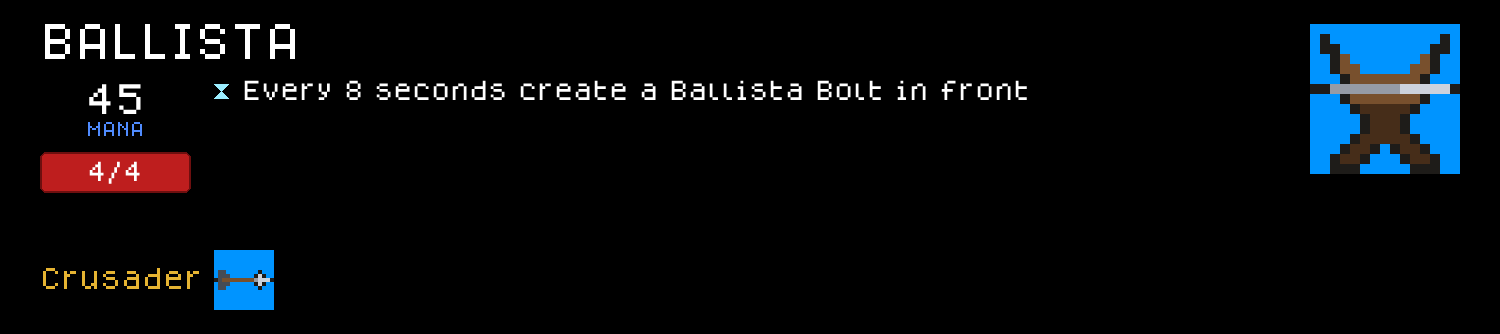
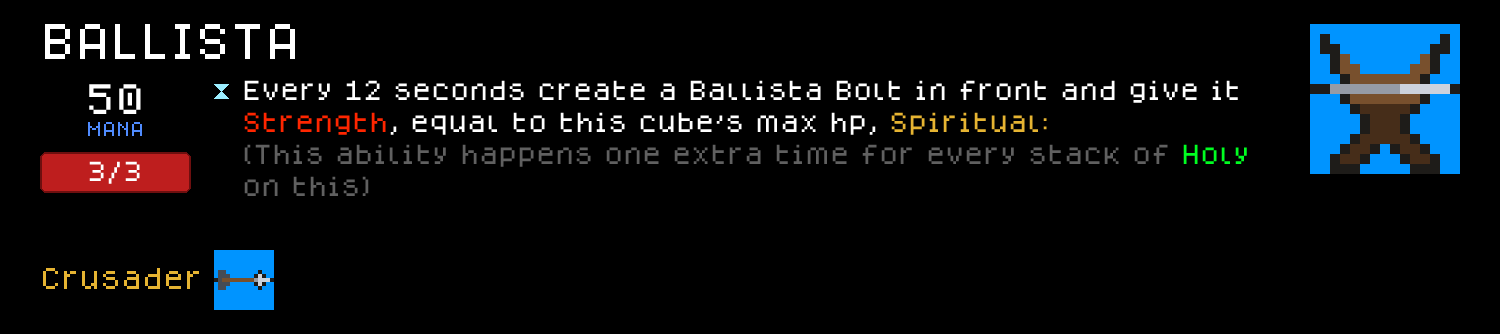
Add Spiritual keyword, Lazarett, and Cardinal lift animation
Spiritual needs a paired ACTION + never-granted text-only ABILITY compound:
there is no GenericTrigger, so one ability compound can't serve three triggers.

diff --git a/.claude/skills/cube-chaos-scripting/references/gotchas-grepped.md b/.claude/skills/cube-chaos-scripting/references/gotchas-grepped.md
@@ -34,7 +34,8 @@ conversion (TOKEN→IDENT).
 - **To make the AI never place a specific cube at all (any position), give it `AiPlacementRule: False`** — `False` is a real, pre-defined `BOOLEAN` compound (`Base_Core/1Compounds.c.txt:355-358`: `COMPOUND: BOOLEAN / False / Not True / End`), no need to hand-build an always-false expression out of `IsLarger`/`IsSmaller`. This works even on a bare `TOKEN` cube with no `IDENT` (`AiPlacementRule` just needs *some* value once the cube can end up in a hand at all, e.g. via `AddCubeToHandOfThis`/`GainAllAbilitiesOfCube`-style grants — it isn't gated on having `IDENT`). Confirmed via a real test-launch (clean parse, 0 `ERROR`/`CANT READ` lines) on the DJ mod's `Record` cube. **Don't assume "never AI-placed" is only a workaround for a rogue enemy AI — check whether staying in hand forever is actually the cube's intended value first.** Real correction, the DJ mod's `Record`: `Rhythmic` (this same mod's ability-copy engine) only scans `EveryCubeInHandOfFactionWhich` — a `Record` that gets placed on the board stops being an eligible ability donor entirely. The user's actual intended DJ strategy is to let Records sit in hand indefinitely, soaking up abilities from whatever touches the Microphone, so `Rhythmic`-holding Notes/other 0-mana creations can keep rolling against that hand-resident pool — placing a Record is a *loss* of value, not a step towards using it. So `AiPlacementRule: False` on `Record` isn't a narrow anti-enemy-AI patch to be reverted once the acquisition path is fixed (see next bullet) — it's the correct permanent behavior, and it deliberately also applies to the game's own "AI plays your turns for you" perk/gamemode piloting the DJ player, which should replicate the human strategy of hoarding Records, not place them. When a "should the AI ever place this" question comes up for a hand-resident value-accumulator cube, ask what the cube is *for* before assuming AI parity with normal placement is the goal.
 - **When an AI-owned cube misbehaving is really "this cube reached an AI opponent it was never supposed to be able to own," fix the acquisition path too, not AI placement alone.** Real incident, the DJ mod's `Microphone`/`Record`: `Microphone` hands the player a 0-mana `Record` every time it's created, and a separate ability makes Records inherit *all* abilities of whatever non-leader cubes are touching the Microphone — an AI *enemy* (not the DJ player) owning a Microphone touching strong cubes could accumulate a hand full of free, arbitrarily-powerful Records (each blocked from ever being placed by the previous bullet's `AiPlacementRule: False`, so they'd just pile up in hand instead — not actually a placement-dump freeze, but still a cube that enemy AI should never have owned in the first place). **The real root cause: `Microphone` had `IDENT 1 0 0 15 10` (rarity 1, obtainable), which lets the general chest/reward loot system hand a physical `Microphone` to ANY entity — including a randomly-generated enemy AI with no connection to the DJ class at all — independent of whether that AI "should" have one.** The fix: convert `Microphone` to bare `TOKEN` (removing it from that loot pool entirely, so no enemy AI can ever acquire one by chance) and instead grant it deterministically only to the DJ class itself via `ObtainAction: AddCubeToDeck CubeConstant Microphone` on `PERK: DJ` (replacing the old `ObtainAction: AddCubeToInventory CubeConstant Microphone`) — matching the real base-game precedent of the Devourer species's `Join_The_Swarm` (`Characters/Species/Devourer.c.txt:10`, also a bare-`TOKEN` cube granted this same way). **`AddCubeToDeck` is not a random shuffle-into-the-deck action** — user-observed directly in the pre-battle deck-building screen: the granted cube shows up as its own always-present slot tagged "Locked cube from one of your perks, does not take up a deck slot," i.e. a guaranteed pinned addition on top of the normal deck, not a probabilistic draw. This is a stronger/simpler guarantee than the `AtTheStartOfTheBattle`+`AddCubeToHandOfThis` per-battle-hand-grant idiom this same file's `Bass_Dragon_Egg`/`Inspiration` perks use (that idiom was tried first here, then replaced once the `AddCubeToDeck` precedent surfaced) — reach for `AddCubeToDeck` first for "this class/species should always have cube X available every battle," and only reach for the `AtTheStartOfTheBattle` idiom when the cube specifically needs to already be IN HAND (not just in the deck) at the very first tick of battle. **Both fixes are kept together, for different reasons** — `AiPlacementRule: False` because staying in hand is the cube's actual point (previous bullet), `AddCubeToDeck`+`TOKEN` because no entity other than the DJ player should ever own one at all. **When a cube "shouldn't exist on an AI opponent," check whether it's independently obtainable (`IDENT` + rarity) via the loot/reward system — a placement rule only controls what an AI does with a cube it already has, not whether it should have been able to get one in the first place, and the two fixes usually aren't substitutes for each other.**
 - **`Cooldown DOUBLE Action` (`ModdingInfo.txt:276`) had zero usage precedent anywhere in the base game or any mod in this repo until confirmed here (2026-07-27)** — wraps a single `Action`, gating it so repeat triggers within the given duration are ignored. Real working example: the Voidling mod's `Temple_The_Void` (`Voidling_Cubes.c.txt`), `AfterACubeDies If IsNeutral Culprit Cooldown DoubleConstant 1 GenerateXMana DoubleConstant 1` — parsed and loaded clean. **The duration argument is a bare `DoubleConstant N` (not `TimeConstant`-wrapped) — but unlike `EveryXSeconds`, it's actually in TICKS, not plain seconds; see the corrected entry a few bullets below (2026-08-02) for the real evidence, this bullet's original claim otherwise was wrong.** Still unconfirmed: the exact reset semantics (whether the cooldown timer starts counting from when the gated action last actually ran, vs. from every attempted trigger regardless of gating) — untested in actual play, only parse-verified so far.
-- **`EveryXTimes DOUBLE Action` and `XTimes DOUBLE Action` are two distinct, both-real productions** (`ModdingInfo.txt:254` and `:261` respectively) — not a typo of each other and not interchangeable by assumption. Neither has a confirmed real usage anywhere in this repo as of 2026-07-27 (grepped, zero hits for either), so which one is semantically correct for "repeat this Action N times" (trigger-level periodic repetition vs. a one-shot repeated-N-times action) is still unverified — don't assume swapping one for the other silently fixes a parse error if something else in the same chain is actually broken (real incident: a `Both GainAbilityStacking ABILITY DOUBLE ...` chain threw `CANT READ DOUBLE XTimes`/`CANT READ DOUBLE EveryXTimes` identically under both names, because the real bug was `GainAbilityStacking` missing its second argument upstream — see this file's `GainAbilityStacking` entry above — not the repeat-wrapper's name).
+- **`Difficulty` is a plain DOUBLE production usable anywhere, but it starts at 0** — scaling any stat off it raw ships a 0-hp cube on the first battle of a run. See `cube-chaos-balancing`'s "Scaling a stat off `Difficulty`" for the floor/offset idioms and the two-ends-of-the-curve verification step; both of the real base-game usages cited in the next bullet are `XTimes Difficulty` chains.
+- **For "run this Action N times right now," use `XTimes DOUBLE Action` — confirmed, not a guess.** Two real base-game usages settle it: `Main/GoldenPerks.c.txt:76` (`Ability: EveryXSeconds DoubleConstant 5 XTimes RoundedDown Division Difficulty DoubleConstant 4 GenerateXMana DoubleConstant 1` — the periodicity comes from the surrounding `EveryXSeconds`, and `XTimes` only multiplies the payload within one firing) and `Extra_Mechanics/Blights.c.txt:96` (`WorldAbility: AtTheStartOfTheBattle XTimes Difficulty Both ChangeMaxManaOfFaction 10 2 FactionXGainsYMana 2 5`, whose own `Description:` reads "Enemy start with 10 max mana and 5 starting mana **per difficulty**"). Nesting works too: `XTimes A (XTimes B (GainAbility <StackingAbility> 1))` grants `A*B` merged stacks (real usage: Crusader's `Ballista`, 2026-08-03). `EveryXTimes DOUBLE Action` (`ModdingInfo.txt:254`) is a genuinely different, also-real production — trigger-level "only act every Nth time this fires", used as `EveryXTimes DoubleConstant 100 <action>` in `Characters/Classes/Priest.c.txt`'s `Continuous_Worship` ("every 100 times an ally heals"), and it's what `Base_Core/1Compounds.c.txt`'s whole `EveryXSeconds`/`EverySecond`/`Every30Ticks` family is built from (`EveryTick EveryXTimes ...`). **Corrected 2026-08-03** — this entry previously claimed neither had any confirmed real usage; the original grep had been scoped to this repo's own mods rather than the base game, which is where all the usage lives. Still don't assume swapping one name for the other fixes a parse error if something else upstream is broken (real incident: a `Both GainAbilityStacking ABILITY DOUBLE ...` chain threw `CANT READ DOUBLE XTimes`/`CANT READ DOUBLE EveryXTimes` identically under both names, because the real bug was `GainAbilityStacking` missing its second argument — see this file's `GainAbilityStacking` entry above).
 - **Re-granting an already-held `GenericStacking` ability via `GainAbility`/`GainRandomAbilityOfCube` (copying a live ability *value*, not calling `GainAbilityStacking` with an explicit number) DOES merge into the existing stack rather than creating a second, separately-tracked instance — user-confirmed in actual play (2026-07-26), not just inferred from the `GenericStacking`-vs-`GenericConstant` distinction documented elsewhere in this file.** The Voidling mod's `True_Void` carries a custom `VoidExpansionX` (`Counter GenericStacking`) stat-holder, occasionally re-granted to itself via `GainRandomAbilityOfCube Test` (which expands to `GainAbility (ARandomAbilityOfCubeWhich GenericCube True)` — a value-copy, not `GainAbilityStacking`); the user observed the ability's own stack count climbing over a battle rather than multiple separate "Void Reach 1" lines appearing. **What's still unconfirmed: the exact growth curve** — since `ARandomAbilityOfCubeWhich` picks the ability's *current* live value and `GainAbility` presumably adds that picked value to the existing stack, repeated picks could plausibly add a flat amount each time or compound (each pick adding whatever the stack has already grown to, i.e. doubling) — not yet distinguished empirically. If a future ability depends on knowing which, watch the exact numbers across 2-3 consecutive picks in a real battle rather than assuming linear growth.
 - **`CopyOfCube CUBE` does NOT produce a free (zero-mana) copy the way `FreeCopy CUBE` does — confirmed via user playtest, `cube-chaos-audit` pass, 2026-07-29.** `CopyOfCube` has zero confirmed real usage anywhere in the base game; its only 3 uses in this whole repo were the Baby-stage dragon-evolution upgrade perks in Unholy/DJ/General (`AtTheStartOfTheBattle Both AddCubeToHandOfThis CopyOfCube CubeConstant Baby_<X>_Dragon RemoveThisAbility`), all three independently written the same way — despite each one's paired base Egg perk correctly using `FreeCopy` for the identical "start with a free X in hand" idiom, and despite the upgrade's own `Description:` still claiming "Start with a free X in your hand." User confirmed in play the granted Baby dragon actually cost its normal mana. Fixed by switching all three to `FreeCopy`, matching the base perk and every other real "start with a free X" precedent in the game (`Characters/Classes/*.c.txt`'s per-battle starting-cube grants, see this file's `WorldAbility:` vs `Ability:` entry below). **Always use `FreeCopy CUBE`, never `CopyOfCube CUBE`, for "grant this cube into hand at no mana cost"** — `CopyOfCube` is real DSL (`ModdingInfo.txt:564`) but its actual semantics (a costed copy? something else?) are still unconfirmed beyond "not free."
 - **For a `BelongsTo: CLASS`/`SPECIES` perk's own "do something for MYSELF at the start of every battle" effect (grant a starting hand cube, run a one-time-per-battle computation over my own board state), use plain `Ability: AtTheStartOfTheBattle`, not `WorldAbility: AtTheStartOfTheBattle` — they are NOT interchangeable, confirmed by a real non-functional-in-play incident (2026-07-27), not just a parse difference.** Every real class in the base game grants its per-battle starting cube via the identical pattern, `Ability: AtTheStartOfTheBattle Both AddCubeToHandOfThis FreeCopy CubeConstant <X> RemoveThisAbility` (`Characters/Classes/*.c.txt`, all 10+ classes checked) — never `WorldAbility:`, and never `AddCubeToHandOfFactionInfinitly`/`AddCubeToHandOfFaction ... FactionOfCube Caster`. The General mod's new class-perk additions (a battle-start placement-zone-halving computation plus two hand-grants for `Claim`/`Retreat`) were first written as `WorldAbility: AtTheStartOfTheBattle` using `FactionOfCube Caster` throughout (to mean "my own side") and `AddCubeToHandOfFactionInfinitly CUBE FactionOfCube Caster` for the grants — this parsed with zero errors/warnings and looked structurally identical to real `WorldAbility:` precedent (`Main/NeutralPerks.c.txt`'s `Map_Compression`, the curses in `Main/Curses.c.txt`), but **user-confirmed in actual play: neither the halving nor the hand-grants ever happened**, while the same perk's pre-existing plain `Ability:` chains (the Strength-1-in-enemy-territory bonus) worked correctly the whole time. Every real `WorldAbility:` precedent that could be found either uses `Caster` purely as a scratch-variable holder with no faction check at all (`Map_Compression`), or is a curse checking `Victim`/`Target`'s faction, never `Caster`'s own (curses by nature target "the enemy," so they never needed "my own side" logic) — meaning there was never actually a confirmed real precedent of `WorldAbility:` + `FactionOfCube Caster` meaning "the perk owner," it was an unverified extrapolation from `Ability:`-context behavior. Switching all four affected lines from `WorldAbility:` to plain `Ability:` (keeping every other token identical, including `FactionOfCube Caster`) and switching the two hand-grants to `AddCubeToHandOfThis FreeCopy CubeConstant <X> RemoveThisAbility` fixed both effects, confirmed via the same real playtest. **Rule of thumb: `WorldAbility:` is for curses/neutral/global-scope effects that don't need "my own side" faction logic; a class/species's own self-directed per-battle behavior belongs on plain `Ability:`, even for `AtTheStartOfTheBattle`/`EveryXSeconds`-style periodic triggers that aren't reacting to a specific board event.**

diff --git a/.claude/skills/cube-chaos-scripting/references/authoring-and-inheritance.md b/.claude/skills/cube-chaos-scripting/references/authoring-and-inheritance.md
@@ -115,6 +115,115 @@ End
 - **A finite, known set of possible cube types**: define one non-parameterized helper compound per specific type (`AfterThisDies CreateCubeOnPosition CubeConstant <ThatOneType> ... PositionOfCube Caster`, no generic needed), then branch on `CubeHasName` at the grant site to pick which one to `GainAbility`. Scales linearly with roster size, zero risk, but only covers types you explicitly enumerated — needs a sensible fallback (e.g. a generic default) for anything outside that set. Real usage: Unholy's `Phylactery` perk (`Unholy_Species.c.txt`) — one `Soul_Memory_<CubeName>` compound per starter cube in its own species roster, defaulting to `Soul_Memory_Imp` for anything unrecognized.
 - **If the recreation can happen immediately instead of after a delay** (same trigger, no need to survive to a *later*, independent death event), skip the whole generic-parameter problem: act on the live cube reference directly in the same chain (`CopyWithAction <live-cube-ref> Action`, per `references/creation-and-copying.md`'s "duplicating a specific live cube" section) rather than trying to bake its identity into a granted ability for later.
 
+## A keyword that MODIFIES another ability: build it as an `ACTION` compound plus a text-only `ABILITY` twin
+
+**When a keyword's meaning is "do something to whatever ability it's attached to" (repeat it, double it,
+delay it) rather than "have this effect," write TWO compounds:**
+
+1. **`COMPOUND: ACTION <Name>Repeat`** — the mechanic, taking the payload via `GenericAction`. This is
+   what you actually wrap around the sub-action inside each ability chain.
+2. **`COMPOUND: ABILITY <Name>`** — body `Nothing`, carrying only the keyword's `Text:` header, plus
+   `NO_DUPLICATES` + `NORANDOM`. **Never granted to any cube.** It exists solely so `\A <Name>` has
+   something to resolve against, so the explanation renders wherever the keyword is referenced.
+
+Reference it in every affected ability's own `Text:` as `\A <Name>` (see `cube-chaos-rule-text`'s `\A`
+section). The player only ever sees `<Name>`; the `...Repeat` name never appears in any rule text.
+
+**Verify it worked by reading the rendered card, not the source:** run
+`cube-chaos-sprite-art/scripts/render_preview_cards.py` and open the affected cube's
+`GameData/<Mod>/Preview/<File>_<Cube>.png`. `\A` against a never-granted compound resolves silently
+either way — if the name were wrong or the compound missing, the card shows a bare word with no
+explanation rather than any error, and `Log.txt` stays clean.
+
+Real, working example — Crusader's `Spiritual` (`GameData/Crusader/Crusader_Cubes.c.txt`, 2026-08-03),
+used by three abilities with three different triggers:
+```
+COMPOUND: ABILITY
+Spiritual
+Nothing
+Text: \C230 180 50 Spiritual \B : \CN \N \C96 96 96 (This ability happens one extra time for every stack of \C0 254 33 Holy \C96 96 96 on this) \CN End
+NO_DUPLICATES
+NORANDOM
+End
+
+COMPOUND: ACTION
+SpiritualRepeat
+XTimes Addition DoubleConstant 1 GetStackingOfAbilityOnCube HolyX Caster GenericAction
+End
+```
+```
+Ability: EveryXSeconds DoubleConstant 30 SpiritualRepeat TargetCube ARandomAlly GainAbility RegenerationX 3
+Text: Every 30 seconds a random ally gains \A RegenerationX 3 \B , \A Spiritual End
+```
+
+**Why the split is forced, not a stylistic choice** — worth knowing so the next session doesn't spend
+the research budget rediscovering it:
+- No ability can reach into a *sibling* ability on the same cube to modify it. There is no
+  `ThisCubesOtherAbility`-style reference in any production list.
+- A `COMPOUND: ABILITY` must bake in its own trigger (there is **no `GenericTrigger`** — the complete
+  `Generic*` vocabulary is `Action`/`Boolean`/`Cube`/`Direction`/`Double`/`Constant`/`Time`/`Stacking`/
+  `Perk`/`Position`/`Ability`/`String`/`Word`/`Name`, `ModdingInfo.txt:295,469,561,601,630-633,705,713,735,750,754-755`).
+  So a single ABILITY compound can only serve keyword users that all share one trigger — which fails
+  the moment two cubes want the keyword on different triggers.
+- A `COMPOUND: ACTION` has no tooltip at all, so it cannot carry the keyword's explanation itself.
+
+Wrap the **narrowest** sub-action that should actually repeat, not the whole chain — the choice is
+load-bearing and silently wrong either way. Same `Spiritual`, three different wrap points:
+- `Lazarett` wraps the whole `TargetCube ARandomAlly ...`, so every repeat re-rolls a *different* ally.
+- `Ballista` puts the wrapper **inside `CreateCubeOnPosition CopyWithAction`'s own trailing `Action`
+  parameter**, so only the strength grant repeats and the create happens once. Do it this way rather than
+  creating the bolt and then re-acquiring it by position — that re-acquire shape is the single most common
+  real bug in this repo, and it would land the whole repeated grant on a pre-existing blocker whenever the
+  tile isn't free (see `references/creation-and-copying.md`, "The fix is `CreateCubeOnPosition
+  CopyWithAction`"). Caught on this very cube during the 2026-08-03 write-back cold-test: the first
+  implementation used the re-acquire shape *while the prose here already cited that trap as the reason not
+  to*, which is exactly how a documented hazard survives being documented.
+- `Holy_Cross` wraps its whole `EveryCubeTouchingPosition` loop, granting each touching ally that many
+  stacks of `Consecration` — which only compounds because `Consecration` has no `NO_DUPLICATES` (see
+  "Duplicate-grant model" below; a flag ability with `NO_DUPLICATES` would silently absorb every repeat).
+
+Nesting `XTimes` inside the wrapper is fine and is the reliable way to multiply two counts:
+`SpiritualRepeat XTimes MaxHpOfCube Caster GainAbility StrengthX 1` grants `maxHp x (1 + Holy)` total
+Strength. **Prefer this over `GainAbilityStacking StrengthX 0 <computed>`** for anything inside a repeat
+wrapper — `GainAbilityStacking`'s set-vs-add semantics on a re-grant are undocumented and unverified,
+so a repeat of it may collapse to a single application, whereas repeated `GainAbility <StackingAbility> 1`
+provably merges additively (see `references/gotchas-grepped.md`).
+
+`Caster` resolves correctly inside the expanded compound even under `TargetCube`/`EveryCubeTouchingPosition`
+rebinding (only `Target` rebinds), so `GetStackingOfAbilityOnCube HolyX Caster` reads the *owning* cube's
+stacks — matching the base game's own `GetStackingOfAbilityOnCube EnergyX Caster`
+(`Extra_Mechanics/1Compounds.c.txt:74`).
+
+## `GetStackingOfAbilityOnCube <Name> <CUBE>` — read a STACKING keyword's live stack count
+
+`ModdingInfo.txt:652`. **Write the ability name bare — not quoted, not wrapped in `DoubleConstant`/
+`StringConstant`** (`GetStackingOfAbilityOnCube HolyX Caster`), despite the production's signature
+listing its first argument as `String`. ~20 real base-game usages all take this form, e.g.
+`Characters/2TokenCubes.c.txt:686` (`GetStackingOfAbilityOnCube FrozenX Target`),
+`Characters/Species/Devourer.c.txt:47`, `Extra_Mechanics/1Compounds.c.txt:74`.
+
+**When you feed this (or any other computed DOUBLE) into a `GainAbility`/`GainAbilityStacking`, the paired
+rule text must NOT use `\A`** — `\A` prints the literal parameter you wrote, not the computed value. Use
+the bare coloured name plus the value in prose; see `cube-chaos-rule-text`'s three mechanical cautions
+under "Why `\A` at all".
+
+Only meaningful for a `GenericStacking`-parameterized ability (`HolyX`, `ArmorX`, `RegenerationX`,
+`StrengthX`, `PoisonX`, …) — those merge repeated grants into one live stack count. A `GenericConstant`
+ability (`ExplodesX`) has no stack count to read; use `AmountOfAbilitiesOfCubeWithName CUBE WORD`
+(`ModdingInfo.txt`, the DOUBLE list) to count separate instances instead. Crusader's own `Consecration`
+uses that second form for its own max-5-per-cube cap.
+
+## `ChangeMaxHp` raises max hp only; `GainXExtraHp` raises max hp AND heals to match
+
+Reach for `ChangeMaxHp DOUBLE` (`ModdingInfo.txt:290`) whenever the intent is "gain max hp *without*
+also gaining that much hp" — a bigger ceiling the cube then has to heal into. `GainXExtraHp` is an
+`ACTION` compound that does both (`Base_Core/1Compounds.c.txt:92-97`:
+`Both SetVariable TEMP <d>` / `Both ChangeMaxHp ...` / `Silent HealXDamage ...`), which is why it's the
+right one for "gains N extra hp" phrasing. The base game states the distinction in its own rule text:
+Priest's `Ancient_Blessing` uses `ChangeMaxHp EventAmount` and reads "it gains that much max hp", while
+`Injured_Veterans` uses `GainXExtraHp DoubleConstant 1` and spells out "+1 extra hp (+1 maxhp and hp)"
+(both `Characters/Classes/Priest.c.txt`). Match that wording split in `Text:`/`Description:` too.
+
 ## Duplicate-grant model: pick it from the ability's SHAPE, not by habit
 
 **Decide this deliberately for every ability that can be granted more than once to the same cube — the engine has three distinct behaviours and picking the wrong one fails silently.** Decompiled from `Cube.AddAbility` (2026-08-02):

diff --git a/.claude/skills/cube-chaos-rule-text/SKILL.md b/.claude/skills/cube-chaos-rule-text/SKILL.md
@@ -82,7 +82,19 @@ Grab the exact colour and display name from the ability's own entry in `ModdingI
 
 `\A` also resolves parameters per call site, so one definition serves every caller: `\A Rhythmic 50` and `\A Rhythmic 20` render the same sentence with different numbers.
 
-Two mechanical cautions:
+Three mechanical cautions:
+- **Don't use `\A` when the granted value is COMPUTED rather than a literal.** `\A` substitutes the
+  parameters exactly as written at the call site, so `\A StrengthX 1` renders the hard number "Strength 1"
+  even when the chain actually grants `maxHp`-many stacks — quietly telling the player the wrong number.
+  Use the **bare coloured name with no number, followed by `\B ,` and the value in prose**:
+  `give it \C255 38 0 Strength \CN \B , equal to this cube's max hp`. This is the base game's own idiom
+  for the same situation — `Main/3GeneralCubes.c.txt:2817`: *"After a differently named ally is placed
+  give it `\C255 38 0 Strength \CN \B ,` equal to the energy on this, then this dies"*. Note this is a
+  **third** case alongside the granted-with-a-literal (`\A`) and removed/tested (bare name) cases below,
+  and unlike the removed/tested case it takes **no number at all** — there's no count to put before the
+  name, which is the whole reason prose has to carry it.
+  *Verify by reading the rendered card* (`render_preview_cards.py` → `GameData/<Mod>/Preview/...`), not
+  the source: a wrong-number `\A` renders perfectly happily and `Log.txt` stays clean.
 - **Never leave punctuation glued to the ability name.** `\A Take_Off, cooldown 10 seconds` risks the parser reading `Take_Off,` as the name. Separate it and close the gap visually with `\B`: `\A Take_Off \B , cooldown 10 seconds`.
 - **Don't use `\A` for an ability being *removed* or *tested* rather than granted** (`lose Swarm`, `an ally without Charging`) — the inline text is phrased as an effect the cube currently has, which reads wrong under "loses" or "without". Use the bare coloured name there instead, regardless of who defined the ability — and if a stack count is included, put the **number before the name**: `\C255 38 0 1 Strength \CN`, not `\C255 38 0 Strength 1 \CN`. **Corrected 2026-07-29** (same Dinosaurs! audit): the mod consistently writes inline mid-sentence references number-first ("grants 1 Holy", "gain 1 Strength" — `\C0 254 33 1 Holy \CN`, `\C255 0 0 1 Fervor \CN`), which is the more natural English word order for a quantity ("gain 1 X", same as "gain 1 mana" or "gain 1 hp"); this repo's own prior example (`\C255 38 0 Strength 1 \CN`, name-then-number) copied the *header* word order (real base-game headers like `StrengthX`'s own `ModdingInfo.txt` string are genuinely name-then-number, e.g. `"Strength STACKING 1 :"`) into an inline-sentence context where it doesn't fit — headers and inline mid-sentence mentions call for different word order, and the header-style example was applied to the wrong context. **This does not affect the compound-header pattern below**, which is still name-then-number by design (matching real base-game headers) — this fix is scoped to the bare-name, non-`\A`, mid-sentence case only.
 
@@ -99,6 +111,8 @@ Text: \C<R> <G> <B> <Keyword Name> [CODE 1] \B : \CN \N \C96 96 96 (<full explan
 The colored name plus `\B :` gives the header; `\N` drops the explanation onto its own line; `96 96 96` (the game's own marker gray) dims it so a player who already knows the keyword can skip the whole block, while a player who doesn't can read it. Parenthesised, and the parentheses stay inside the gray.
 
 Pick the header color from the base game's existing vocabulary rather than inventing one — `155 238 255` movement, `255 0 0` / `182 0 0` damage, `0 254 33` healing, `255 255 0` and `255 238 0` yellow for tag/status keywords, `255 0 220` magenta for meta/system abilities (`LEADER`, `TheInheritor`, `ElementalFriend`). For a **parameterized** compound the placeholder in the text matches the body's generic: `CODE 1` for `GenericConstant`/`GenericDouble`/`GenericTime`, `STACKING 1` for `GenericStacking`.
+
+**A keyword that modifies another ability (rather than having its own effect) still uses this exact header shape — but its `COMPOUND: ABILITY` is a never-granted text-only twin of a separate `COMPOUND: ACTION` that holds the mechanic.** `\A <Name>` resolves against the text-only twin, so nothing about the wording changes; see `cube-chaos-scripting/references/authoring-and-inheritance.md`'s "A keyword that MODIFIES another ability" section for why the split is forced and where to wrap the payload. Real example: Crusader's `Spiritual`.
 
 **A purely cosmetic tag ability still gets the treatment**, with the explanation opening "Cosmetic only," so the player knows there's no effect to hunt for — e.g. `(Cosmetic only, marks a Note that gained all abilities of a random perk)`. This is not a contradiction of "never mention purely cosmetic effects" below: that rule is about not cluttering a *mechanical* ability's text with its sound/particle side effects. A tag ability whose entire existence is the marker has nothing else to describe, and its tooltip line renders whether you like it or not (there is no way to hide an ability from the tooltip — see `cube-chaos-scripting`), so the honest move is to say what the marker means.
 

diff --git a/.claude/skills/cube-chaos-balancing/SKILL.md b/.claude/skills/cube-chaos-balancing/SKILL.md
@@ -56,6 +56,38 @@ Consistent with this whole skill set's core discipline (`cube-chaos-scripting`: 
 
 **`EveryXAcidicY TIME DAMAGE` (deals `DAMAGE` to every touching cube with a different name — an AoE poke, not single-target) empirically clusters at `DAMAGE 1`, not 2, across every real analog.** Grepped every `EveryXAcidicY` use in the base game + mods (excluding the deliberately-joke `Magma` `1000/1000/1000` cube): `Lava` (10 mana, `10 1`), `Solid_Shadow` (10 mana, `300 1`), `Fallout` (3 mana, `60 1`), `Acidic`/General class (40 mana `IDENT 2`, `60 1`), `Stomach_Cell` (20 mana `IDENT 1`, `60 1`), `Molten_Brimstone` (0 mana `TOKEN`, `60 1`) — six real cubes at `DAMAGE 1`, versus only a `TOKEN` acid-hazard puddle (`Acid`, `40 2`) at `DAMAGE 2`. So Unholy's `Imp`/`Plague_Imp` at `60 2` were priced above the real norm for this ability. Fixed 2026-07-28 by doubling the interval instead of cutting the damage (user's explicit preference — the user wanted to preserve the "2 damage" bite rather than chip for 1): both now use `EveryXAcidicY 120 2`, which lands their DPS exactly at the same 1-dmg/60-tick rate as the six real analogs above while keeping the bigger per-hit number. `ChargeEveryX` (Imp/Plague_Imp's other 60-tick ability) was deliberately left untouched at 60 — it's an unrelated forward-movement ability (`ModdingInfo.txt:93`, "Charging: every CODE 1 move forwards"), not a warmup tied to the attack timer, and only coincidentally shared the same number.
 
+## Scaling a stat off `Difficulty`: it starts at **0**, so floor it or offset it
+
+`Difficulty` (`ModdingInfo.txt:688`, a bare DOUBLE production usable in any battle ability) is a
+run-progress counter, **not** a difficulty *setting* with a sane minimum. It starts at 0 and is
+incremented by the scenarios themselves: `+1` per normal battle won, `+2` for an elite/boss
+(`Extra_Mechanics/Battle_Scenarios.c.txt:20,62,104`), plus assorted `ChangeDifficulty` riders on
+Blights, Nightmares, Curses and node choices. So it roughly tracks "battles won so far" and reaches
+the mid-to-high teens by late run — `Main/Curses.c.txt:568`'s `Minus Lowest Difficulty 15` implies the
+design expects it to pass 15.
+
+**Therefore: never write a raw `Difficulty` into a stat that must be ≥1.** A literal "hp equal to the
+difficulty" cube is born at 0 hp on the first battle of a run and dies the instant it's placed — no
+error, no warning, just a cube that evaporates. Use one of:
+- `Highest Difficulty DoubleConstant 1` — the value, floored at 1 (Crusader's `Crusade_Knight`,
+  2026-08-03: `AfterThisIsCreated GainXExtraHp Subtraction Highest Difficulty DoubleConstant 1 DoubleConstant 1`
+  on a `1 1` header, giving `hp = max(1, Difficulty)`).
+- `Addition DoubleConstant N Difficulty` — an offset baseline, the base game's own habit
+  (`Main/Specifics/Other_Scenarios.c.txt:455`, `GainXExtraHp Addition DoubleConstant 2 Difficulty`).
+- `RoundedDown Division Difficulty DoubleConstant N` when the intent is a slow drip that's *meant* to
+  be nothing early (`Main/GoldenPerks.c.txt:76` divides by 4 for a mana trickle).
+
+**Verify by reading the resulting number at both ends of the curve, not just one:** compute the stat at
+`Difficulty = 0` and at `Difficulty = 20` before committing. A difficulty-scaled cube is two different
+cubes, and pricing it off the late-run number alone ships something unplayable for the first several
+battles — flag that curve to the user explicitly rather than treating the mana cost as settled
+(`Crusade_Knight` at 60 mana is a 1/1 on battle one; that was accepted deliberately, with the tradeoff
+stated).
+
+Difficulty-scaled stats belong in the `IDENT` **scaling** field, not `aggressive`/`defensive` —
+`Crusade_Knight` went `IDENT 1 20 15 0 0` → `IDENT 1 20 15 20 0` when its flat 10/10 became
+difficulty-driven, and `Ballista` went `scaling 5` → `20` when its bolt damage became max-hp-driven.
+
 ## `TOKEN` cubes need none of this
 
 A `TOKEN` cube (not randomly obtainable — created only as a byproduct of another cube/perk's own ability, e.g. `Bomb`, `Shot`, `Rocket`) has no `IDENT` line at all, hence no rarity/aggressive/defensive/scaling/weirdness numbers to choose.

diff --git a/.claude/skills/cube-chaos-audit/references/cross-skill-index.md b/.claude/skills/cube-chaos-audit/references/cross-skill-index.md
@@ -53,3 +53,7 @@ tracking them as a set, so the same asymmetry kept recurring skill after skill.
 | An ability's duplicate-grant behaviour has three distinct engine modes (merge STACKING / discard / new independent instance) selected by `NO_DUPLICATES` + whether it has a `STACKING` param — and a discarded grant silently suppresses its own `WhenYouGainThis` trigger and grant visual | `cube-chaos-scripting/references/authoring-and-inheritance.md` ("Duplicate-grant model: pick it from the ability's SHAPE") | `cube-chaos-balancing` (which model is chosen decides whether a second copy of an effect is worth anything — same question as its perk-stacking value check); `cube-chaos-audit` has two Universal checklist rows | needs link |
 | Map nodes are rewritten from an ordinary `PERK:` (`AfterAMapIsGenerated` + `EveryMapNodeWhich`/`MapNodeIsType`/`SetMapNodeScenario`), never by authoring a new `NODEMAP:` — and the first map is generated *before* class selection, so a class/species perk must duplicate the chain into an `ObtainAction:` | `cube-chaos-scenario-scripting/references/nodemap-generation.md` ("Rewriting an already-generated map from a `PERK:`") | `cube-chaos-scripting/references/perk-economy.md` now points here (trigger-timing is a perk fact, not only a scenario one); `cube-chaos-audit` has two Universal checklist rows | linked 2026-08-02 |
 | `cube-chaos-orchestrator`'s Step D ground-truth table should list every skill with a `## Research protocol` section | `cube-chaos-orchestrator/SKILL.md` Step D | `cube-chaos-audit`, `cube-chaos-repo-setup`, `cube-chaos-doc-audit` all have one and are now listed | resolved 2026-08-02 |
+| A keyword that *modifies another ability* (rather than having its own effect) must be split into a `COMPOUND: ACTION` holding the mechanic plus a never-granted text-only `COMPOUND: ABILITY` twin for `\A` to resolve against — there is no `GenericTrigger`, so one ABILITY compound can't serve users with different triggers | `cube-chaos-scripting/references/authoring-and-inheritance.md` ("A keyword that MODIFIES another ability") | `cube-chaos-rule-text/SKILL.md`'s keyword-header section now points here (the wording is unchanged but the two-compound shape isn't obvious from the prose side) | linked 2026-08-03 |
+| A **computed-value** ability grant takes the bare coloured name + "equal to \<expr\>" in prose, never `\A` — `\A` substitutes the literal parameter and would print the wrong number | `cube-chaos-rule-text/SKILL.md` (the three mechanical cautions under "Why `\A` at all") | `cube-chaos-scripting` (`GainAbilityStacking`/`XTimes`-computed grants are exactly where this arises); `cube-chaos-audit` has no row for it yet | linked 2026-08-03 |
+| `Difficulty` starts at **0** and tracks battles won, so any stat scaled off it must be floored/offset or the cube is born at 0 hp on battle one | `cube-chaos-balancing/SKILL.md` ("Scaling a stat off `Difficulty`") | `cube-chaos-scripting` (it's a plain DOUBLE production usable in any chain, with no hint of the 0 floor); `cube-chaos-scenario-scripting` owns the `ChangeDifficulty` sites that drive the counter | linked 2026-08-03 |
+| Script-written `.c.png` files never fire `regen-preview-cards.sh`/`regen-readme-previews.sh` (both match `Write\|Edit` + `tool_input.file_path`), so a scratchpad-generated sheet needs a manual `render_preview_cards.py` run — the stale card looks like bad slot math | `cube-chaos-sprite-art/SKILL.md` ("Script-written sheets don't trigger the regen hooks") | `cube-chaos-mod-setup` (owns the test/verify loop and README/Preview governance); `cube-chaos-scenario-scripting` (`render_terrain_screenshot.py` is generated the same way) | linked 2026-08-03 |

diff --git a/.claude/skills/cube-chaos-mod-setup/SKILL.md b/.claude/skills/cube-chaos-mod-setup/SKILL.md
@@ -138,6 +138,8 @@ below as the pass/fail signal reported back to the user.
 4. **Don't close the game after the log check** unless `.claude/preferences.local.md`'s `test_launch_behavior` is set to `auto-close` (default: `leave-running` — see `cube-chaos-repo-setup`). By default, leave it running at the Main Menu — the user wants to pick up manual testing themselves right after a clean log check, and closing it just makes them wait for a relaunch. Only kill it (step 1's command) if *another* edit is about to be tested immediately, not as a routine cleanup step.
 5. **Whenever the game is left running after touching a `CUBE:`/`PERK:` that isn't a `BelongsTo: <class/species>` reward perk and isn't already a starter** (i.e. it's not otherwise reachable without playing a full run — a Neutral/Curse/Blight/Boon/Golden/Consumable/CubeUpgrade perk, or an obtainable cube not yet granted as a starter per the section below), **proactively print the matching console command** (`ObtainPerk PerkConstant <Name>` / `AddCubeToInventory CubeConstant <Name>` / `AddCubeToDeck CubeConstant <Name>` — see `references/console-commands.md`) unprompted, right alongside reporting the clean log. This applies to every leave-running test-launch this loop produces — a fresh creation, an edit to existing content, an audit fix — not just the initial-build workflows in `content-cube.md`/`content-perk-family.md`. Skip it only for content that's already trivially reachable (a base class/species reward perk, or a cube already marked `TYPE Starter`).
 
+6. **If any sprite sheet was written by a script this session (rather than by the Write/Edit tools), run `python3 .claude/skills/cube-chaos-sprite-art/scripts/render_preview_cards.py` by hand before reading any preview card.** The `PostToolUse` regen hooks match `Write|Edit` and key off `tool_input.file_path`, so a Bash-invoked generator bypasses them silently and leaves a card showing the *previous* sheet — see `cube-chaos-sprite-art`'s "Script-written sheets don't trigger the regen hooks" for the tell and the incident.
+
 **PowerShell gotcha when checking whether the process is (still) running:** `Get-Process -Name "Cube Chaos" | Select-Object ...` reports a nonzero exit from this harness's PowerShell tool when the process isn't found (a non-terminating error hits `Select-Object`'s empty pipeline and flips `$?` to false even with no visible exception text) — don't read that as the launch having failed. Use `$p = Get-Process -Name "Cube Chaos" -ErrorAction SilentlyContinue; if ($p) {...} else {...}` instead, and treat the actual `Log.txt` content (reaching `Saved Profile on exit` with no `ERROR`/`CANT READ` lines = a clean full boot-and-exit cycle) as the real signal, not process-liveness at whatever moment you happened to check — the game may have already booted, parsed everything, and exited on its own by the time you poll.
 
 A clean `Log.txt` confirms the mod's files *parsed* correctly — parsing happens at boot for everything listed in `Loading_Order.txt` regardless of the in-game Mods-screen toggle above. It does NOT confirm the mod is actually enabled for play; that's a separate, human/UI-only check (there's no known way to verify or flip that toggle from the log or any GameData file), so don't tell a user "it's confirmed working" based on the log alone if what they actually asked about was whether they'd see it in a real run.

diff --git a/.claude/skills/cube-chaos-sprite-art/SKILL.md b/.claude/skills/cube-chaos-sprite-art/SKILL.md
@@ -38,9 +38,29 @@ Sheet dimensions = `tile_size * columns` wide by `tile_size * rows` tall. Icons 
 4. **If the sheet has no free slot, extend it by one whole row and keep the existing column count** —
    `new_height = old_height + tile_size`, width untouched. This guarantees no existing tile moves.
    Draw the guide ring on every newly created cell, not just the one being filled.
-5. **Verify before calling it done**: regenerate the preview cards and actually look at the new item's
-   card *and* at the card of whatever block precedes it. Two adjacent correct cards prove the slot
-   math; the new card alone doesn't.
+5. **Verify before calling it done**: regenerate the preview cards **by hand** —
+   `python3 .claude/skills/cube-chaos-sprite-art/scripts/render_preview_cards.py` from the repo root —
+   and actually look at the new item's card *and* at the card of whatever block precedes it. Two
+   adjacent correct cards prove the slot math; the new card alone doesn't. See "Script-written sheets
+   don't trigger the regen hooks" below for why the manual run is mandatory rather than belt-and-braces.
+
+### Script-written sheets don't trigger the regen hooks — always run the renderer by hand afterwards
+
+**After any script writes to a `.c.png`, run `python3 .claude/skills/cube-chaos-sprite-art/scripts/render_preview_cards.py`
+yourself before looking at a preview card.** `.claude/hooks/regen-preview-cards.sh` and
+`regen-readme-previews.sh` are `PostToolUse` hooks matching `Write|Edit`, and they read the changed path
+out of `tool_input.file_path` — a Bash-invoked Python script has no `file_path`, so neither hook ever
+fires for it. This bites *specifically because this skill's own procedures prescribe generating sheets
+and animation strips from a scratchpad script* (see the animated-icon procedure below), so the
+recommended workflow silently defeats the automation that covers hand edits.
+
+The failure is quiet and misleading rather than loud: the card renders fine, just from the **previous**
+sheet. Real incident, 2026-08-03 (Crusader `Lazarett`): the `.c.txt` edits fired the hook and produced a
+correct-text card, then the sprite was written by script — so the shipped card showed the finished rule
+text next to an **empty blue tile**, which reads as "my slot math is wrong" rather than "my card is
+stale." The tell is a preview card whose icon is pure `#0094ff` background (or is simply the old art)
+while the sheet itself, dumped directly, is correct — check the sheet's mtime against the card's before
+debugging any slot arithmetic.
 
 **If a block genuinely must go elsewhere in the file**, that is a pixel-relocation job, not a text
 edit: work out the resulting slot index for the inserted block *and every block after it*, and move

diff --git a/.claude/skills/cube-chaos-scripting/references/cube-animation.md b/.claude/skills/cube-chaos-scripting/references/cube-animation.md
@@ -183,6 +183,17 @@ reach for `TRIGGER` only when it's tied to an `After*` reactive trigger.** Two i
    (`Mana_Leech`'s `AfterThisDealsDamage`, `Cooling_Aggregate`'s `AfterACubeTakesDamage`); every periodic ability's
    animation is `CLOCK`.
 
+**A `TRIGGER` bound to a heavily-conditional reactive ability fires only when that ability's action actually
+executes — not on every evaluation of its trigger.** So it is safe to bind one to an `Ability:` whose trigger fires
+constantly but whose guards rarely pass; you do **not** need to split the guarded branch into its own ability to get
+a clean animation. `Ability.LastActionTime` (what `TriggerAnimation` divides by 16) is written on execution, not on
+trigger evaluation. **User-confirmed in play, 2026-08-03**: Crusader's `Cardinal` carries
+`Animation: Lift TRIGGER 0 4 1 10 10 10` on its pick-up ability — a `BeforeThisMoves` chain gated behind a sideways-
+direction test, an "am I carrying nothing" test, and an ally-in-the-way test. `BeforeThisMoves` fires on *every*
+move the Cardinal makes, yet the hoist flourish plays only on an actual pick-up ("correctly only plays on picking up
+something"), never on ordinary movement. This had been flagged as an unknown worth watching for; it is now settled,
+so don't re-derive it or pre-emptively restructure an ability around it.
+
 **Write the threshold list back-loaded and starting with a literal `0`** — e.g. `Animation: Launch CLOCK 0 4 0 0.88
 0.04 0.04`, matching the base game's own `Thump CLOCK 0 4 0 0.85 0.05 0.05`. That gives a long rest on frame 0 and
 a short flourish that culminates as the ability fires, instead of `EQUAL <Amount>`'s uniform crawl (fine for a fast

diff --git a/GameData/Crusader/README.md b/GameData/Crusader/README.md
@@ -25,6 +25,13 @@ Each card below is rendered to match the game's own in-game tooltip style. Full-
 <img src="Preview/Crusader_Cubes_Trebuchet_Rock.png" width="700" alt="Trebuchet Rock cube card">
 <img src="Preview/Crusader_Cubes_Holy_Cross.png" width="700" alt="Holy Cross cube card">
 <img src="Preview/Crusader_Cubes_Cardinal.png" width="700" alt="Cardinal cube card">
+<table>
+<tr>
+<td valign="middle">On Trigger</td>
+<td valign="middle"><img src="Preview/Crusader_Cubes_Cardinal_Lift.gif" width="70" alt="Cardinal Lift animation"></td>
+</tr>
+</table>
+<img src="Preview/Crusader_Cubes_Lazarett.png" width="700" alt="Lazarett cube card">
 
 ### Perks
 
